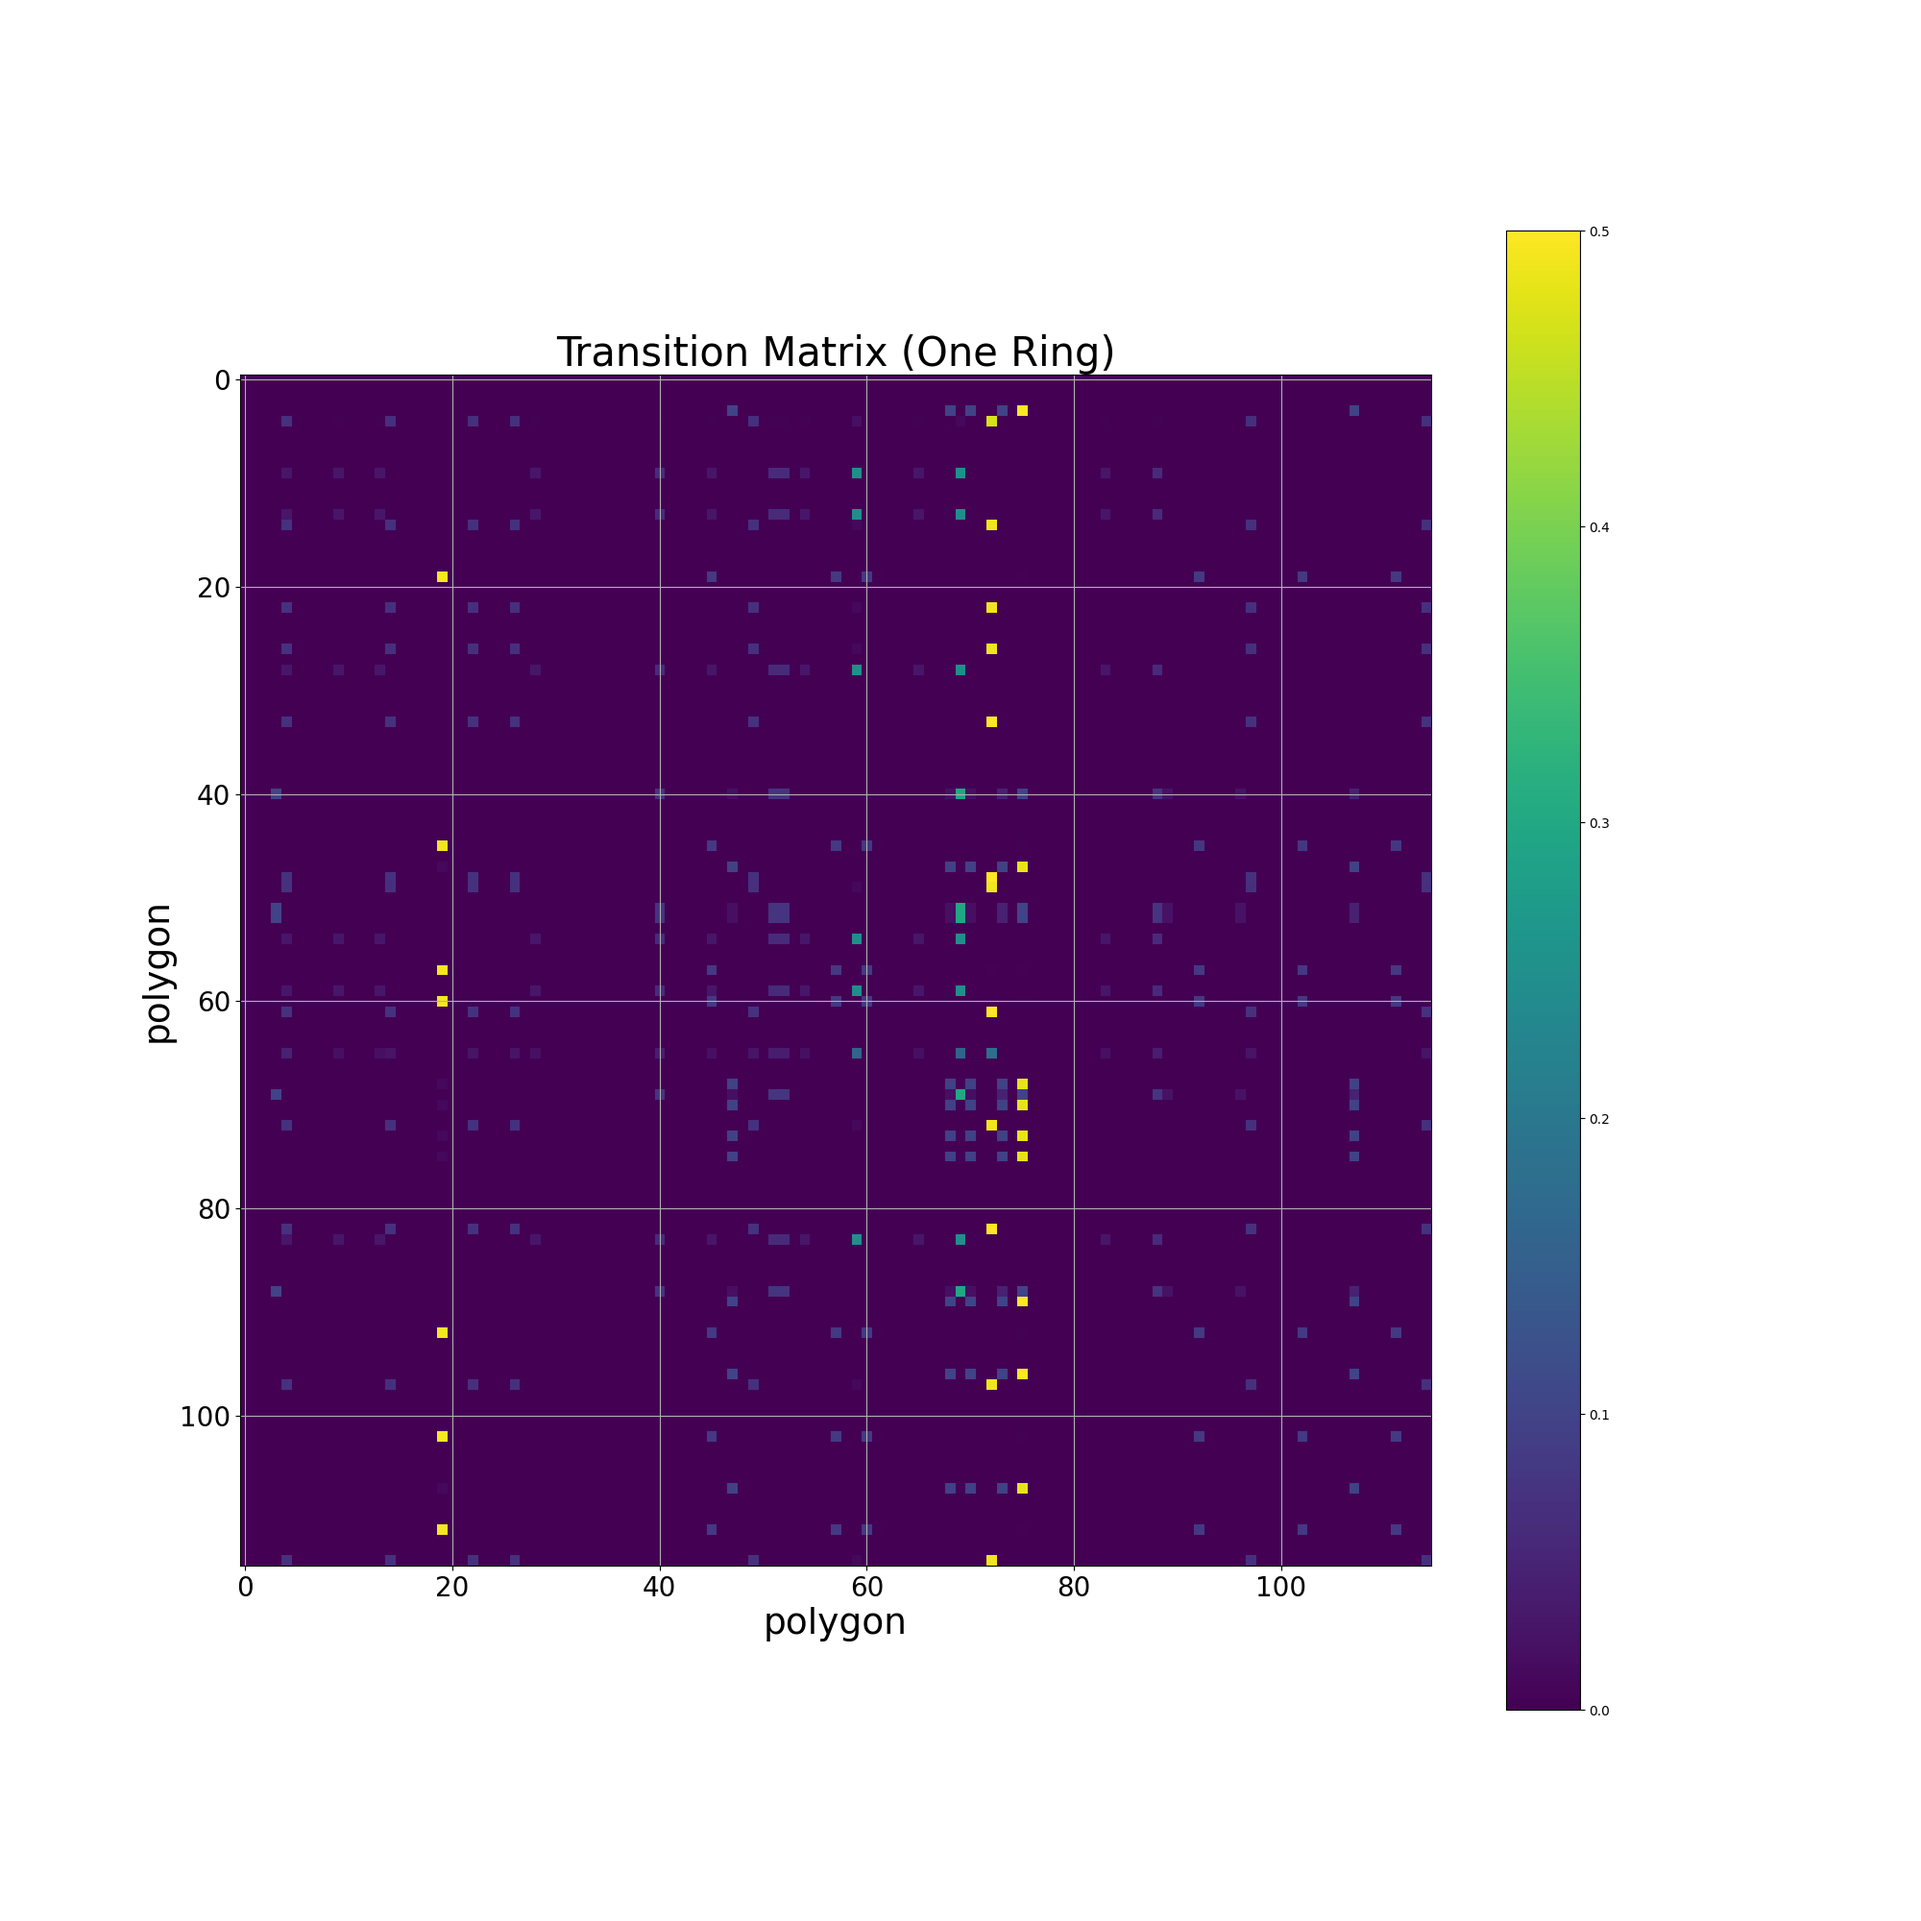
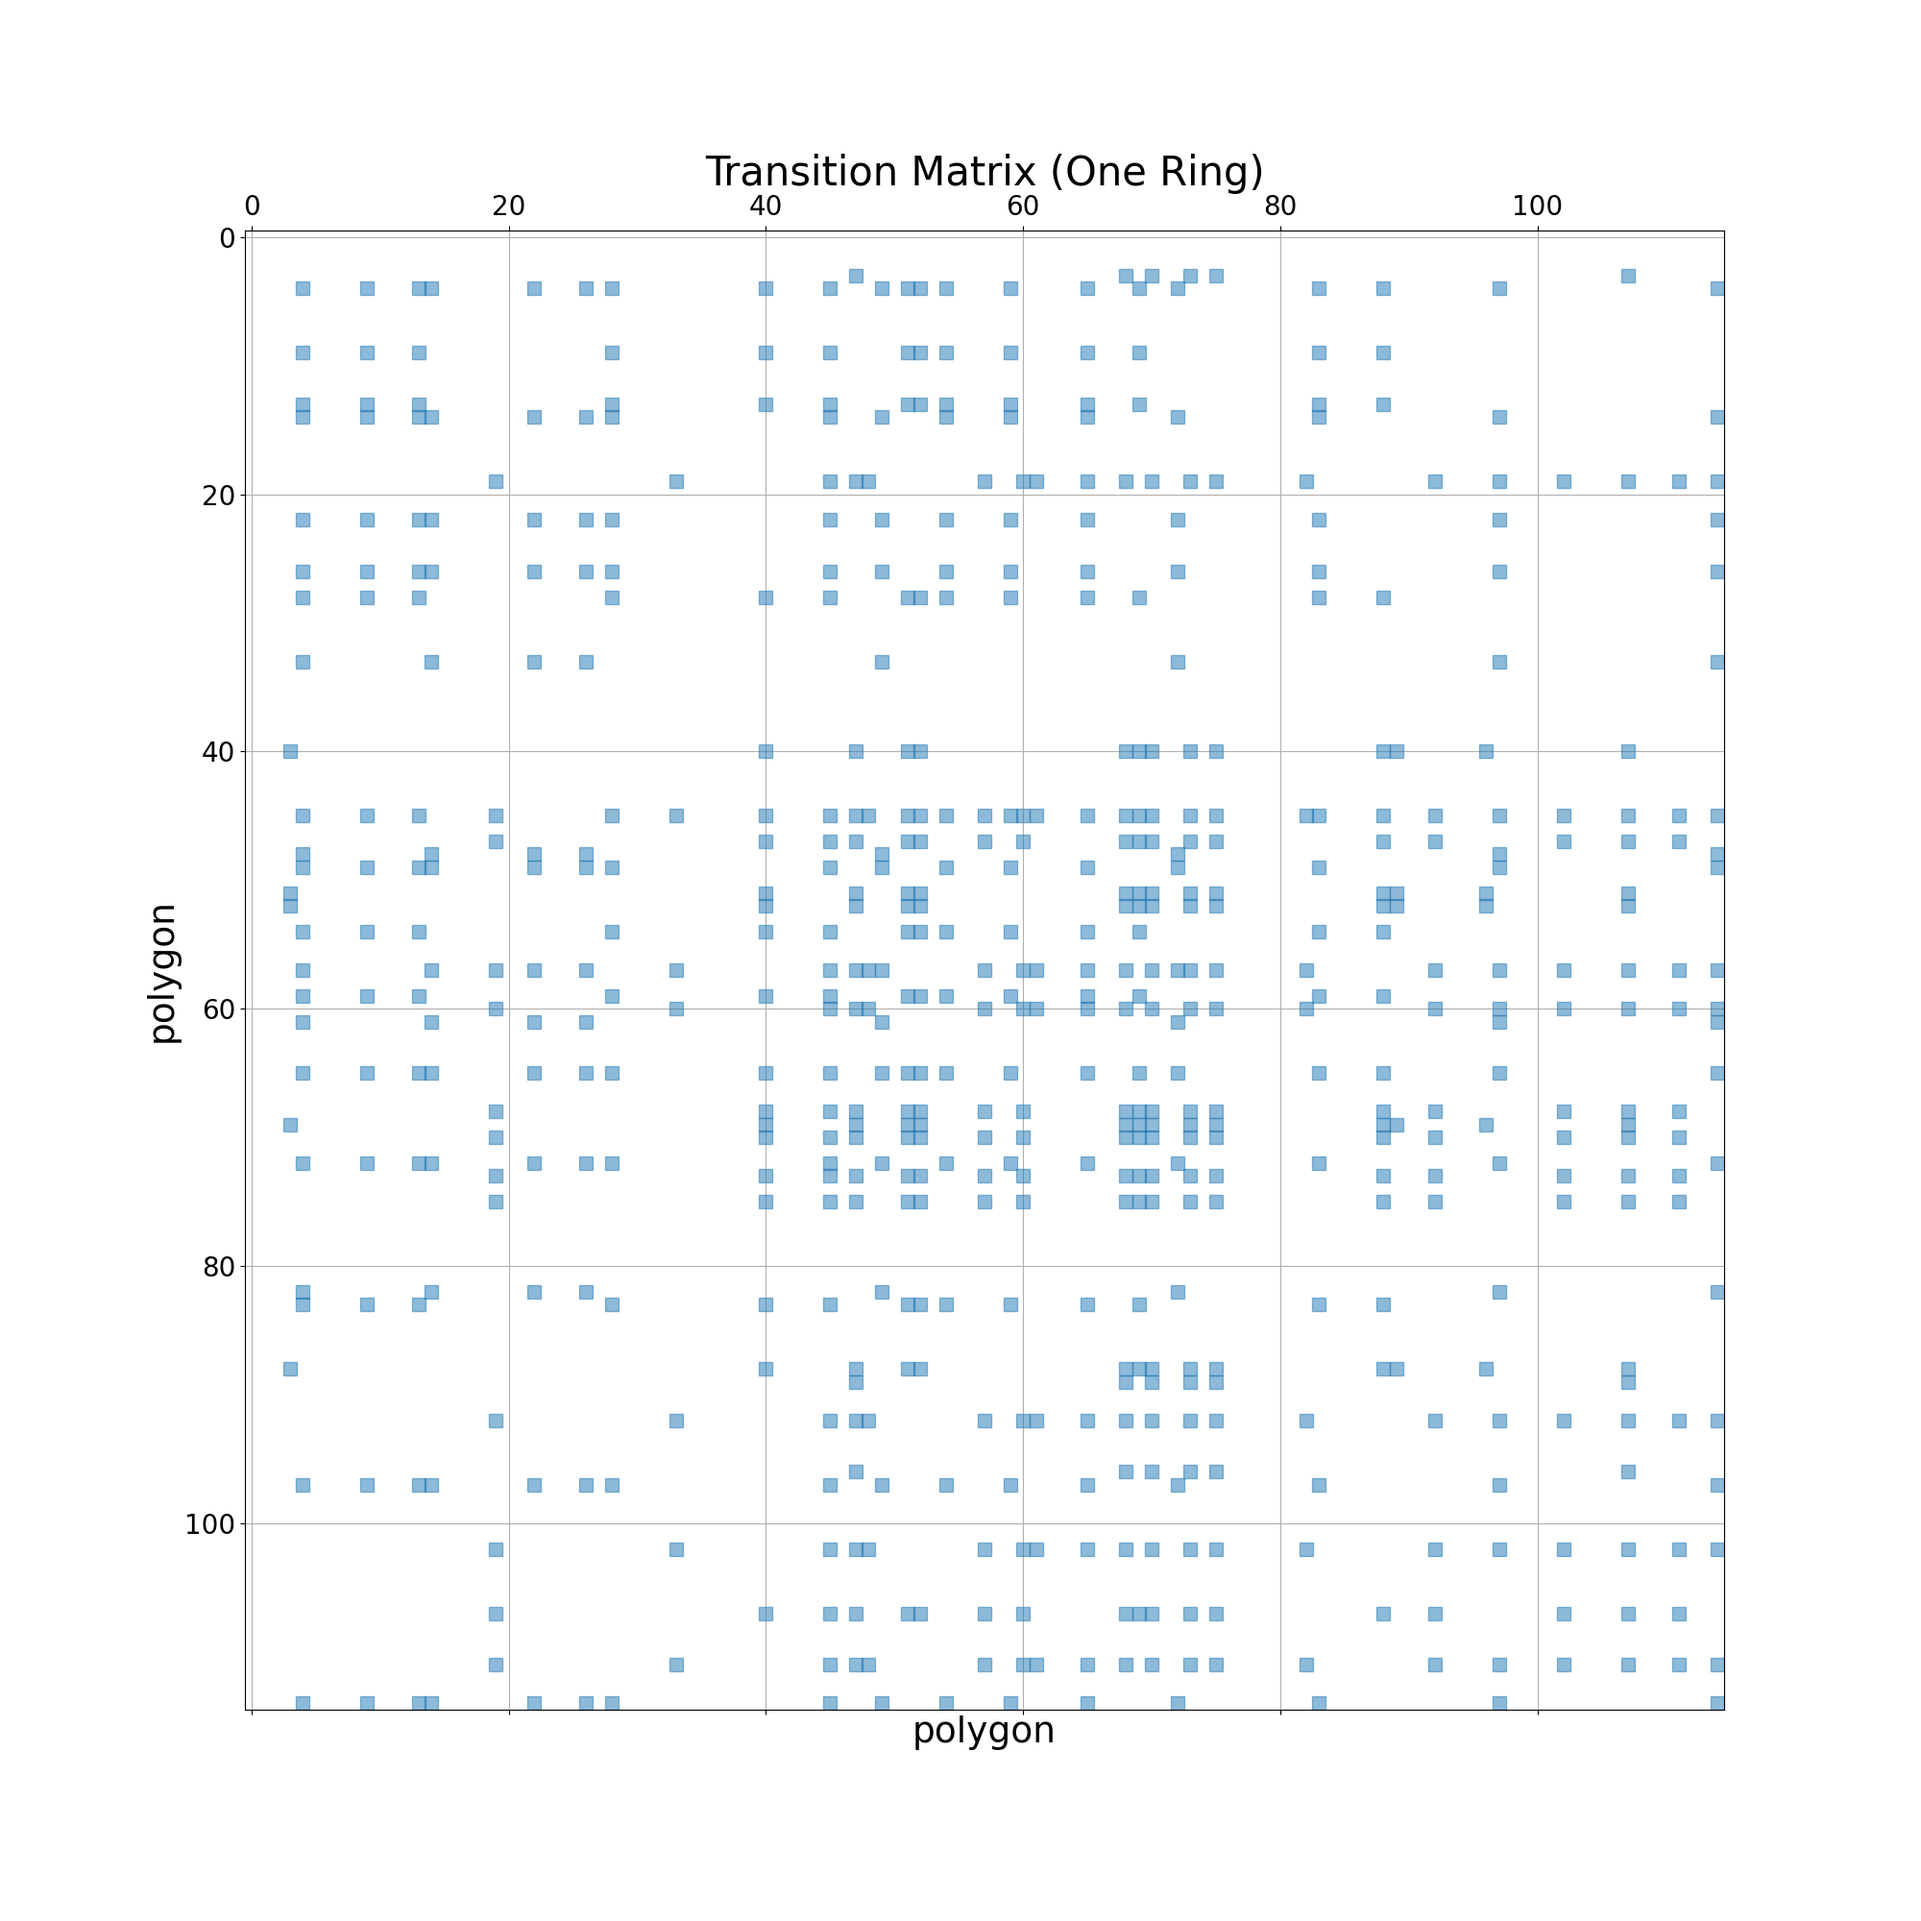
update

diff --git a/cdr_trajectories/example.py b/cdr_trajectories/example.py
@@ -7,16 +7,20 @@ import os
 import numpy as np
 import pandas as pd
 from random import seed, random
+
 from pyspark.sql import Window
 import pyspark.sql.functions as F
 from pyspark.ml.linalg import Vectors
-from cdr_trajectories.constants import spark
 from pyspark.sql.types import IntegerType
-from cdr_trajectories.TM import TM
-from cdr_trajectories.OD import OD
-from cdr_trajectories.ring import get_RingData
-from cdr_trajectories.trajectories import get_DetermTrajData, get_ProbTrajData
+
+from cdr_trajectories.constants import Spark
+from cdr_trajectories.mpn import MPN
+from cdr_trajectories.voronoi import Voronoi
+from cdr_trajectories.ring import get_oneRingData, get_twoRingData, get_threeRingData
+from cdr_trajectories.trajectories import DetermTraj, ProbTraj
 from cdr_trajectories.time_inhomo import time_inhomo
+from cdr_trajectories.OD import OD
+from cdr_trajectories.TM import TM
 from cdr_trajectories.simulation import Vectorization, Simulation
 from cdr_trajectories.udfs import prepare_for_plot, plot_sparse, plot_dense, plot_vector, plot_vector_bar
 
@@ -32,12 +36,24 @@ thirdRing_file = 'data/ring/voronoi20191213uppsla3d.txt'
 
 
 
-### 0 -TRAJECTORIES
-## 0.1 - Deterministic Trajectories:
-deterministic_trajectories = get_DetermTrajData(mpn_file, voronoi_file)
-## 0.2 - Probabilistic Trajectories:
-probabilistic_trajectories = get_ProbTrajData(mpn_file, voronoi_file, firstRing_file, secondRing_file, thirdRing_file)
+### 0 - PROCESSED DATASET:
+## 0.1 - Mobile Phone Network:
+mpn_data = MPN(mpn_file).process()
+## 0.2 - Vornnoi Polygon:
+voronoi_data = Voronoi(voronoi_file).process()
+## 0.3 - Ring Distribution:
+oneRing_data = get_oneRingData(firstRing_file, secondRing_file, thirdRing_file)
+twoRing_data = get_twoRingData(firstRing_file, secondRing_file, thirdRing_file)
+threeRing_data = get_threeRingData(firstRing_file, secondRing_file, thirdRing_file)
+## 0.4 - Deterministic Trajectories:
+deterministic_trajectories = DetermTraj(mpn_data, voronoi_data).make_traj()
+## 0.5 - Probabilistic Trajectories:
+trajectories = DetermTraj(mpn_data, voronoi_data).join()
+trajectories_oneRing = ProbTraj(trajectories, oneRing_data).make_traj()
+trajectories_twoRing = ProbTraj(trajectories, twoRing_data).make_traj()
+probabilistic_trajectories = ProbTraj(trajectories, threeRing_data).make_traj()
 time_inhomogeneous_probabilistic_trajectories = time_inhomo(probabilistic_trajectories, 1, 5, 12, 18).make_tm_time()
+
 
 
 
@@ -60,14 +76,15 @@ plot_sparse(prepare_for_plot(tm_0, 'updates'), 'TM_0.png', 'Transition Matrix (D
 
 
 ## 2.2 - Probabilistic Trajectories:
-# tm_1 = TM( get_ProbTrajData(mpn_file, voronoi_file, firstRing_file) ).make_tm()
-# plot_dense(prepare_for_plot(tm_1, 'updates'), 'TM_1.png', 'Transition Matrix (One Ring)', 'outputs/probTraj')
+tm_1 = TM(trajectories_oneRing).make_tm()
+plot_sparse(prepare_for_plot(tm_1, 'updates'), 'TM_1.png', 'Transition Matrix (One Ring)', 'outputs/probTraj')
 
-# tm_2 = TM( get_ProbTrajData(mpn_file, voronoi_file, secondRing_file) ).make_tm()
-# plot_dense(prepare_for_plot(tm_2, 'updates'), 'TM_2.png', 'Transition Matrix (Two Rings)', 'outputs/probTraj')
+tm_2 = TM(trajectories_twoRing).make_tm()
+plot_sparse(prepare_for_plot(tm_2, 'updates'), 'TM_2.png', 'Transition Matrix (Two Rings)', 'outputs/probTraj')
 
 tm_3 = TM(probabilistic_trajectories).make_tm()
-plot_dense(prepare_for_plot(tm_3, 'updates'), 'TM_3.png', 'Transition Matrix (Three Rings)', 'outputs/probTraj')
+plot_sparse(prepare_for_plot(tm_3, 'updates'), 'TM_3.png', 'Transition Matrix (Three Rings)', 'outputs/probTraj')
+plot_dense(prepare_for_plot(tm_3, 'updates'), 'TM_3_Dense.png', 'Transition Matrix (Probabilistic)', 'outputs/probTraj')
 
 
 
@@ -164,7 +181,7 @@ def simulate(data):
 
     return df
 
-init_sim = spark.createDataFrame(simulate(init_state))
+init_sim = Spark.createDataFrame(simulate(init_state))
 
 w2 = Window.partitionBy(['user_id']).orderBy(F.lit('A'))
 init_sim = init_sim.withColumn('simulated_traj', F.explode(F.split(F.col('simulated_traj'), ',')))\
@@ -175,7 +192,6 @@ init_sim = init_sim.withColumn('simulated_traj', F.explode(F.split(F.col('simula
          .select('user_id', 'simulated_traj', 'i')
 
 
-threeRing_data = get_RingData(firstRing_file, secondRing_file, thirdRing_file)
 sim_traj = init_sim.join(F.broadcast(threeRing_data), init_sim.simulated_traj == threeRing_data.voronoi_id, how = 'inner')\
               .orderBy(['user_id', 'i']).select('user_id', 'simulated_traj', 'states', 'i')
 

diff --git a/cdr_trajectories/ring.py b/cdr_trajectories/ring.py
@@ -6,7 +6,7 @@ Processing Ring Datasets
 import pyspark.sql.functions as F
 from pyspark.sql import Window
 from pyspark.sql.types import IntegerType, FloatType, ArrayType
-from cdr_trajectories.constants import spark, ring_fraction
+from cdr_trajectories.constants import ring_fraction, Spark
 
 
 
@@ -14,7 +14,7 @@ class Preprocess:
 
     def __init__(self, path):
         self.path = path
-        self.df = spark.read.format("csv").load(self.path)
+        self.df = Spark.read.format("csv").load(self.path)
 
     def read(self):
         w = Window().orderBy(F.lit('A'))
@@ -23,11 +23,11 @@ class Preprocess:
         return self.df
 
     def seperate_adjNum(self):
-        self.df = spark.createDataFrame(self.df.toPandas().iloc[::2])
+        self.df = Spark.createDataFrame(self.df.toPandas().iloc[::2])
         return self.df
 
     def seperate_adjMem(self):
-        self.df = spark.createDataFrame(self.df.toPandas().iloc[1::2])
+        self.df = Spark.createDataFrame(self.df.toPandas().iloc[1::2])
         return self.df
 
     def adjNum(self):
@@ -193,8 +193,7 @@ class Ring:
 
 
 
-
-def get_RingData(firstRing_file, secondRing_file, thirdRing_file):
+def get_oneRingData(firstRing_file, secondRing_file, thirdRing_file):
 
     firstRing_adjNum = Preprocess(firstRing_file).adjNum()
     secondRing_adjNum = Preprocess(secondRing_file).adjNum()
@@ -207,8 +206,42 @@ def get_RingData(firstRing_file, secondRing_file, thirdRing_file):
     adjNum_data = Ring_adjNum(firstRing_adjNum, secondRing_adjNum, thirdRing_adjNum).get_adjNum()
     adjMem_data = Ring_adjMem(firstRing_adjMem, secondRing_adjMem, thirdRing_adjMem).get_adjMem()
      
-    # oneRing_data = Ring(adjNum_data, adjMem_data).get_1ring_data()
-    # twoRing_data = Ring(adjNum_data, adjMem_data).get_2ring_data()
+    oneRing_data = Ring(adjNum_data, adjMem_data).get_1ring_data()
+
+    return oneRing_data
+
+
+def get_twoRingData(firstRing_file, secondRing_file, thirdRing_file):
+
+    firstRing_adjNum = Preprocess(firstRing_file).adjNum()
+    secondRing_adjNum = Preprocess(secondRing_file).adjNum()
+    thirdRing_adjNum = Preprocess(thirdRing_file).adjNum()
+
+    firstRing_adjMem = Preprocess(firstRing_file).adjMem()
+    secondRing_adjMem = Preprocess(secondRing_file).adjMem()
+    thirdRing_adjMem = Preprocess(thirdRing_file).adjMem()
+
+    adjNum_data = Ring_adjNum(firstRing_adjNum, secondRing_adjNum, thirdRing_adjNum).get_adjNum()
+    adjMem_data = Ring_adjMem(firstRing_adjMem, secondRing_adjMem, thirdRing_adjMem).get_adjMem()
+     
+    twoRing_data = Ring(adjNum_data, adjMem_data).get_2ring_data()
+
+    return twoRing_data
+
+
+def get_threeRingData(firstRing_file, secondRing_file, thirdRing_file):
+
+    firstRing_adjNum = Preprocess(firstRing_file).adjNum()
+    secondRing_adjNum = Preprocess(secondRing_file).adjNum()
+    thirdRing_adjNum = Preprocess(thirdRing_file).adjNum()
+
+    firstRing_adjMem = Preprocess(firstRing_file).adjMem()
+    secondRing_adjMem = Preprocess(secondRing_file).adjMem()
+    thirdRing_adjMem = Preprocess(thirdRing_file).adjMem()
+
+    adjNum_data = Ring_adjNum(firstRing_adjNum, secondRing_adjNum, thirdRing_adjNum).get_adjNum()
+    adjMem_data = Ring_adjMem(firstRing_adjMem, secondRing_adjMem, thirdRing_adjMem).get_adjMem()
+     
     threeRing_data = Ring(adjNum_data, adjMem_data).get_3ring_data()
 
     return threeRing_data

diff --git a/cdr_trajectories/trajectories.py b/cdr_trajectories/trajectories.py
@@ -4,9 +4,6 @@ Trajectories
 """
 
 import pyspark.sql.functions as F
-from cdr_trajectories.mpn import MPN
-from cdr_trajectories.voronoi import Voronoi
-from cdr_trajectories.ring import get_RingData
 
 
 # Deterministic Trajectories
@@ -17,7 +14,7 @@ class DetermTraj:
         self.voronoi = voronoi
 
     def join(self):
-        self.df = self.mpn.join(self.voronoi, ['avg_X', 'avg_Y'], how = 'inner')\
+        self.df = self.mpn.join(F.broadcast(self.voronoi), ['avg_X', 'avg_Y'], how = 'inner')\
                        .orderBy(['user_id', 'timestamp'])
         return self.df
             
@@ -46,7 +43,7 @@ class ProbTraj:
         self.ring = ring
 
     def make_traj(self):
-        self.df = self.df.join(self.ring, ['voronoi_id'], how = 'inner')\
+        self.df = self.df.join(F.broadcast(self.ring), ['voronoi_id'], how = 'inner')\
                          .orderBy(['user_id', 'timestamp'])\
                          .drop('avg_X', 'avg_Y', 'neighbors', 'props')
         return self.df
@@ -55,24 +52,24 @@ class ProbTraj:
 
 
 
-def get_DetermTrajData(mpn_file, voronoi_file):
+# def get_DetermTrajData(mpn_file, voronoi_file):
 
-    mpn_data = MPN(mpn_file).process()
-    voronoi_data = Voronoi(voronoi_file).process()
+#     mpn_data = MPN(mpn_file).process()
+#     voronoi_data = Voronoi(voronoi_file).process()
     
-    deterministic_trajectories = DetermTraj(mpn_data, voronoi_data).make_traj()
+#     deterministic_trajectories = DetermTraj(mpn_data, voronoi_data).make_traj()
 
-    return deterministic_trajectories
+#     return deterministic_trajectories
 
 
-def get_ProbTrajData(mpn_file, voronoi_file, firstRing_file, secondRing_file, thirdRing_file):
+# def get_ProbTrajData(mpn_file, voronoi_file, firstRing_file, secondRing_file, thirdRing_file):
 
-    mpn_data = MPN(mpn_file).process()
-    voronoi_data = Voronoi(voronoi_file).process()
+#     mpn_data = MPN(mpn_file).process()
+#     voronoi_data = Voronoi(voronoi_file).process()
 
-    trajectories = DetermTraj(mpn_data, voronoi_data).join()
-    threeRing_data = get_RingData(firstRing_file, secondRing_file, thirdRing_file)
+#     trajectories = DetermTraj(mpn_data, voronoi_data).join()
+#     threeRing_data = get_RingData(firstRing_file, secondRing_file, thirdRing_file)
 
-    probabilistic_trajectories = ProbTraj(trajectories, threeRing_data).make_traj()
+#     probabilistic_trajectories = ProbTraj(trajectories, threeRing_data).make_traj()
 
-    return probabilistic_trajectories
+#     return probabilistic_trajectories

diff --git a/cdr_trajectories/test.py b/cdr_trajectories/test.py
@@ -1,8 +1,20 @@
 
 
-# import pyspark.sql.functions as F
-# from cdr_trajectories.constants import spark
+import pyspark.sql.functions as F
+from cdr_trajectories.constants import Spark
 
+mpn_file = 'data/mpn/*'
 
+Spark.conf.set('spark.sql.shuffle.partitions')
 
-# df = spark.createDataFrame
+df_mpn = Spark.read.format("csv")\
+              .option("inferSchema", "true")\
+              .option("header", "true")\
+              .option("sep", ";")\
+              .load(mpn_file)
+
+df_mpn.write.mode('overwrite').parquet('df_mpn.parquet')
+
+parquet_mpn = Spark.read.parquet('df_mpn.parquet')
+
+print()

diff --git a/cdr_trajectories/voronoi.py b/cdr_trajectories/voronoi.py
@@ -5,7 +5,7 @@ Processing Voronoi Dataset
 
 import pyspark.sql.functions as F
 from pyspark.sql.types import DoubleType
-from cdr_trajectories.constants import spark
+from cdr_trajectories.constants import Spark
 
 
 
@@ -13,7 +13,7 @@ class Voronoi:
 
     def __init__(self, path):
         self.path = path
-        self.df = spark.read.format("csv")\
+        self.df = Spark.read.format("csv")\
             .option("inferSchema", "true")\
             .option("header", "true")\
             .option("sep", ";")\

diff --git a/cdr_trajectories/mpn.py b/cdr_trajectories/mpn.py
@@ -5,14 +5,14 @@ Processing MPN Dataset
 
 import pyspark.sql.functions as F
 from pyspark.sql.types import DoubleType
-from cdr_trajectories.constants import spark
+from cdr_trajectories.constants import Spark
 
 
 class MPN:
 
     def __init__(self, path):
         self.path = path
-        self.df = spark.read.format("csv")\
+        self.df = Spark.read.format("csv")\
             .option("inferSchema", "true")\
             .option("header", "true")\
             .option("sep", ";")\

diff --git a/cdr_trajectories/constants.py b/cdr_trajectories/constants.py
@@ -5,7 +5,7 @@ Constants for This Package
 
 from pyspark.sql import SparkSession
 
-spark = SparkSession.builder\
+Spark = SparkSession.builder\
     .enableHiveSupport()\
     .appName('cdr_trajectories')\
     .getOrCreate()
